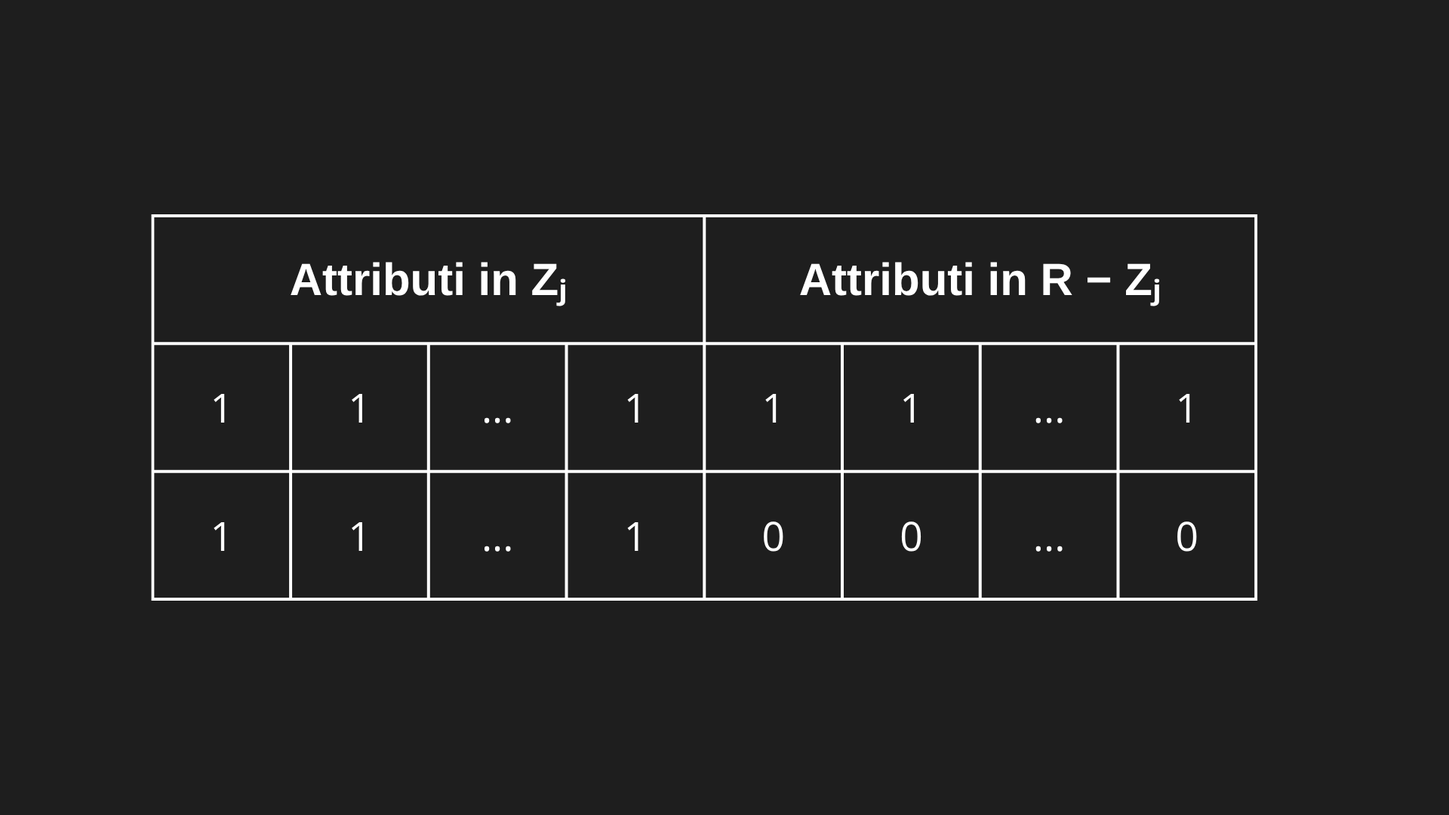
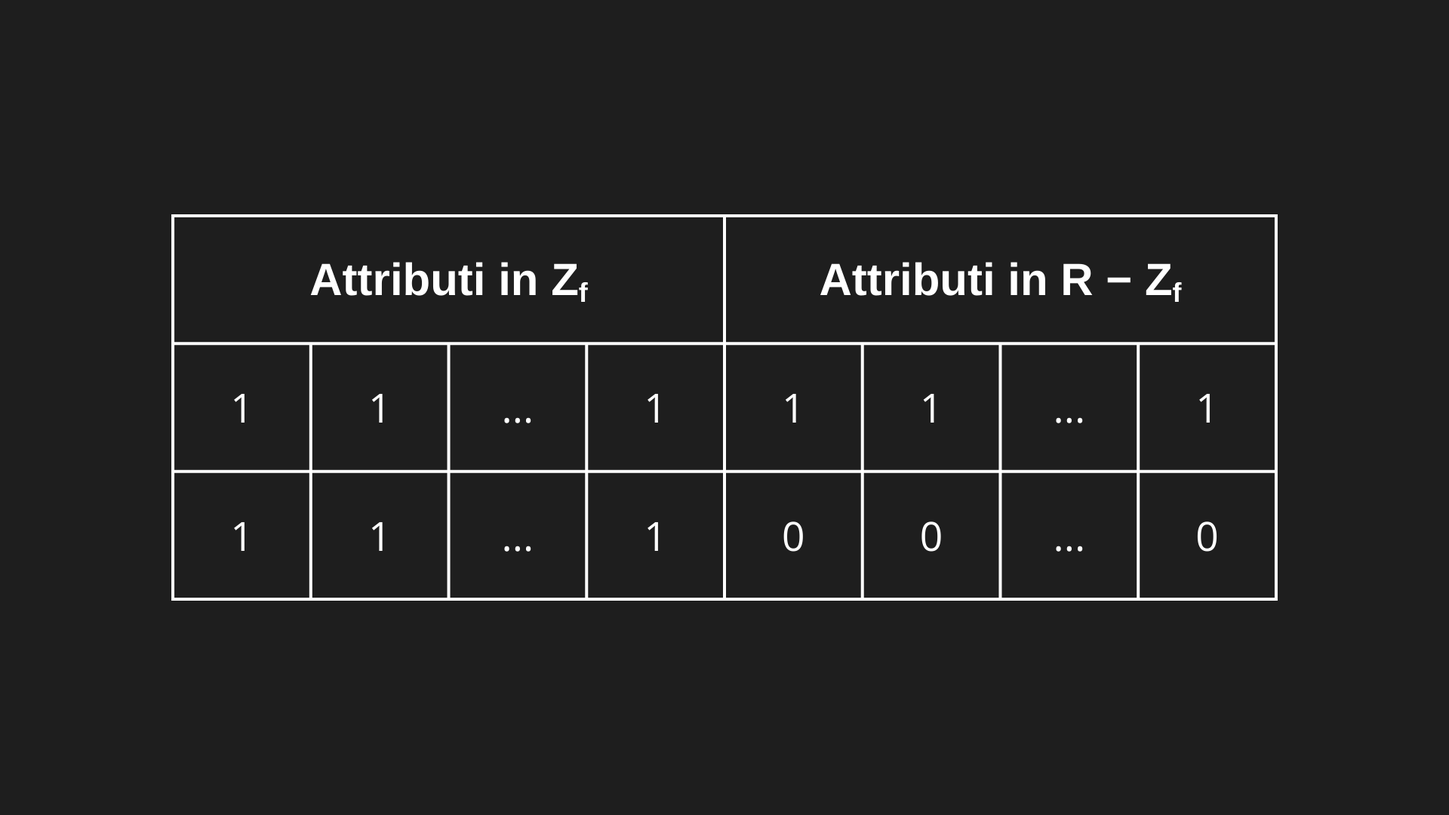
Sync + build 02/08/2026 01:32:26

diff --git a/content/BD/Logical Layer/Data Model/Data Model Types/Relational Model/Functional Dependencies.md b/content/BD/Logical Layer/Data Model/Data Model Types/Relational Model/Functional Dependencies.md
@@ -174,20 +174,20 @@ Dimostriamo che <b>F<sup>A</sup> ⊆ F<sup>+</sup></b>:
 
 ---
 
-Indichiamo con <b>F<sub>i</sub></b> **l’insieme delle dipendenze funzionali ottenute dopo *i* applicazioni degli assiomi di Armstrong** a partire da **F**. Quindi:
+Indichiamo con <b>F<sub>j</sub></b> **l’insieme delle dipendenze funzionali ottenute dopo *j* applicazioni degli assiomi di Armstrong** a partire da **F**. Quindi:
 <b>F<sub>0</sub> = F</b> ...
 <b>F<sub>1</sub></b> = tutte le dipendenze ottenute da <b>F<sub>0</sub></b> applicando una volta uno qualsiasi dei tre assiomi...
 <b>F<sub>2</sub></b> = tutte quelle ottenute applicando ancora una volta uno qualsiasi dei tre assiomi su <b>F<sub>1</sub></b>...
 e così via.
 L’unione di tutti questi insiemi costituisce <b>F<sup>A</sup></b>:
 
-$$F^A = \bigcup_{i \ge 0} F_i$$
+$$F^A = \bigcup_{j \ge 0} F_j$$
 
 > In altre parole, <b>F<sup>A</sup></b> è il risultato di applicare **ricorsivamente** gli assiomi di Armstrong **fino a chiusura** cioè finché non si ottengono più nuove dipendenze.
 
 ---
 
-**Caso base (*i* = 0):**
+**Caso base (*j* = 0):**
 
 $$F_0=F⊆F^+⟹F_0⊆F^+$$
 
@@ -197,17 +197,17 @@ Per [[Functional Dependencies#CHIUSURA SEMANTICA|definizione]], tutte le dipende
 
 **Ipotesi induttiva:**
 
-$$F_i⊆F^+$$
+$$F_j⊆F^+$$
 
-Si assume che tutte le dipendenze ottenute con **al più *i* applicazioni** degli assiomi di Armstrong siano già in <b>F<sup>+</sup></b>.
+Si assume che tutte le dipendenze ottenute con **al più *j* applicazioni** degli assiomi di Armstrong siano già in <b>F<sup>+</sup></b>.
 
 ---
 
-**Passo induttivo (*i* > 0):**
+**Passo induttivo (*j* > 0):**
 
-$$F_{i+1}⊆F^+$$
+$$F_{j+1}⊆F^+$$
 
-Bisogna mostrare che anche ogni dipendenza in <b>F<sub>i+1</sub></b> è ottenuta applicando **una sola volta in più** uno dei tre assiomi di Armstrong su dipendenze già contenute in <b>F<sub>i</sub></b>.
+Bisogna mostrare che anche ogni dipendenza in <b>F<sub>j+1</sub></b> è ottenuta applicando **una sola volta in più** uno dei tre assiomi di Armstrong su dipendenze già contenute in <b>F<sub>j</sub></b>.
 
 Ora si considerano i tre casi in cui la nuova **X → Y** può essere stata ottenuta:
 
@@ -230,7 +230,7 @@ Dunque **X → Y**, se ottenuta per riflessività, è **una dipendenza logicamen
 
 **Caso 2:**
 
-**X → Y** è stata ottenuta applicando l’assioma dell'[[Functional Dependencies#Aumento (Augmentation)|aumento]] ad una dipendenza funzionale **V → W** in <b>F<sup>A</sup></b>, che a sua volta è stata ottenuta applicando ricorsivamente gli assiomi di Armstrong un numero di volte **≤ i−1** (quindi per ipotesi induttiva, **V → W ∈** <b>F<sup>+</sup></b>).
+**X → Y** è stata ottenuta applicando l’assioma dell'[[Functional Dependencies#Aumento (Augmentation)|aumento]] ad una dipendenza funzionale **V → W** in <b>F<sup>A</sup></b>, che a sua volta è stata ottenuta applicando ricorsivamente gli assiomi di Armstrong un numero di volte **≤ j−1** (quindi per ipotesi induttiva, **V → W ∈** <b>F<sup>+</sup></b>).
 
 Dunque si ha **X = VZ e Y = WZ** per qualche insieme di attributi **Z ∈ R**.
 
@@ -261,7 +261,7 @@ Dunque **X → Y** (**VZ → WZ**), se ottenuta per aumento su **V → W ∈** <
 **Caso 3:**
 
 **X → Y** è stata ottenuta applicando l’assioma della [[Functional Dependencies#Transitività (Transitivity)|transitività]] a due dipendenze funzionali **X → Z** e **Z → Y** in <b>F<sup>A</sup></b>, ottenute a loro volta applicando ricorsivamente gli assiomi di Armstrong un numero di
-volte **≤ i−1** (quindi per ipotesi induttiva, **X → Z** e **Z → Y ∈** <b>F<sup>+</sup></b>).
+volte **≤ j−1** (quindi per ipotesi induttiva, **X → Z** e **Z → Y ∈** <b>F<sup>+</sup></b>).
 
 Sia ***r*** un’istanza di **R** e siano ***t<sub>1</sub>*** e ***t<sub>2</sub>*** due tuple di ***r*** tali che:
 
@@ -541,21 +541,20 @@ L’algoritmo calcola correttamente la chiusura <b>X<sup>+</sup></b> di un insie
 
 **Dimostrazione:**
 
-Indichiamo con <b>Z<sub>0</sub></b> il valore iniziale di **Z** (<b>Z<sub>0</sub></b> **= X**) e con <b>Z<sub>i</sub></b> ed <b>S<sub>i</sub></b>, con  ***i* ≥ 1**, i valori di **Z** ed **S** dopo l’***i*-esima** esecuzione del corpo del ciclo. Facile vedere che, per ogni ***i***:
+Indichiamo con <b>Z<sub>0</sub></b> il valore iniziale di **Z** (<b>Z<sub>0</sub></b> **= X**) e con <b>Z<sub>j</sub></b> ed <b>S<sub>j</sub></b>, con ***j* ≥ 1**, i valori di **Z** ed **S** dopo la ***j*-esima** esecuzione del corpo del ciclo. Facile vedere che, per ogni ***j***:
 
-$$Z_i⊆ Z_{i+1}$$
+$$Z_j⊆ Z_{j+1}$$
 
-> Ricorda: In <b>Z<sub>i</sub></b> ci sono gli attributi aggiunti a **Z** fino alla ***i*-esima** iterazione. Alla fine di ogni iterazione aggiungiamo qualcosa a **Z** da **S**, ma **non eliminiamo mai** nessun attributo in **Z**.
+> Ricorda: In <b>Z<sub>j</sub></b> ci sono gli attributi aggiunti a **Z** fino alla ***j*-esima** iterazione. Alla fine di ogni iterazione aggiungiamo qualcosa a **Z** da **S**, ma **non eliminiamo mai** nessun attributo in **Z**.
 
-Sia ***j*** tale che <b>S<sub>j</sub></b> **⊆** <b>Z<sub>j</sub></b> (cioè <b>Z<sub>j</sub></b> **= valore di Z al termine dell'algoritmo =** <b>X<sup>+</sup></b>), dimostriamo che:
+Sia ***f*** tale che <b>S<sub>f</sub></b> **⊆** <b>Z<sub>f</sub></b> (cioè <b>Z<sub>f</sub></b> **= valore di Z al termine dell'algoritmo =** <b>X<sup>+</sup></b>), dimostriamo che:
 
-$$A \in Z_j  \iff A \in X^+$$
+$$A \in Z_f  \iff A \in X^+$$
 
 ---
+###### 1. Se A ∈ Z<sub>f</sub> allora A ∈ X<sup>+</sup> (⇒):
 
-**1. Se A ∈ <b>Z<sub>j</sub></b> allora A ∈ <b>X<sup>+</sup></b> (⇒):**
-
-**Caso base (*i* = 0):**
+**Caso base (*j* = 0):**
 
 $$Z_0=X⊆X^+⟹Z_0⊆X^+$$
 
@@ -565,35 +564,34 @@ Per [[Functional Dependencies#Riflessività (reflexivity)|riflessività]], tutti
 
 **Ipotesi induttiva:** 
 
-$$Z_{i-1}⊆X^+$$
+$$Z_{j-1}⊆X^+$$
 
-Si assume che tutti gli attributi ottenuti con **al più *i* - 1 iterazioni** dell'algoritmo siano già in <b>X<sup>+</sup></b>.
+Si assume che tutti gli attributi ottenuti con **al più *j* - 1 iterazioni** dell'algoritmo siano già in <b>X<sup>+</sup></b>.
 
 ---
 
-**Passo induttivo (*i* > 0):**
+**Passo induttivo (*j* > 0):**
 
-Sia **A** un attributo in **<b>Z<sub>i</sub></b> - <b>Z<sub>i-1</sub></b>** (ovvero aggiunto a **Z** durante l'***i*-esima** iterazione):
-Deve esistere, secondo l'[[Functional Dependencies#Algoritmo calcolo X<sup>+</sup>|algoritmo]], una dipendenza **Y → V ∈ F** tale che <b>Y ⊆ Z<sub>i-1</sub></b> e **A ∈ V**.
-Poiché <b>Y ⊆ Z<sub>i-1</sub></b>, allora per l'**ipotesi induttiva**: <b>Y ⊆ X<sup>+</sup></b>.
+Sia **A** un attributo in **<b>Z<sub>j</sub></b> - <b>Z<sub>j-1</sub></b>** (ovvero aggiunto a **Z** durante la ***j*-esima** iterazione):
+Deve esistere, secondo l'[[Functional Dependencies#Algoritmo calcolo X<sup>+</sup>|algoritmo]], una dipendenza **Y → V ∈ F** tale che <b>Y ⊆ Z<sub>j-1</sub></b> e **A ∈ V**.
+Poiché <b>Y ⊆ Z<sub>j-1</sub></b>, allora per l'**ipotesi induttiva**: <b>Y ⊆ X<sup>+</sup></b>.
 Pertanto, per il [[Functional Dependencies#Lemma 1|lemma]]: <b>Y ⊆ X<sup>+</sup></b> ⟹ **X → Y ∈** <b>F<sup>A</sup></b>.
 Per [[Functional Dependencies#Transitività (Transitivity)|transitività]]: Se **X → Y ∈** <b>F<sup>A</sup></b> e **Y → V ∈ F**, allora **X → V ∈** <b>F<sup>A</sup></b>.
 Pertanto, sempre per il [[Functional Dependencies#Lemma|lemma]]: **X → V ∈** <b>F<sup>A</sup></b> ⟹ <b>V ⊆ X<sup>+</sup></b>.
-Dunque, in quanto **A ∈ V** e <b>V ⊆ X<sup>+</sup></b>, allora <b>A ∈ X<sup>+</sup></b>, per ogni **A ∈ <b>Z<sub>i</sub></b> - <b>Z<sub>i-1</sub></b>**.
-Abbiamo  quindi dimostrato che <b>Z<sub>i</sub></b> - <b>Z<sub>i-1</sub></b> **⊆** <b>X<sup>+</sup></b>.
-Sapendo anche che, per l'ipotesi induttiva, <b>Z<sub>i-1</sub></b> **⊆** <b>X<sup>+</sup></b>, possiamo affermare che:
+Dunque, in quanto **A ∈ V** e <b>V ⊆ X<sup>+</sup></b>, allora <b>A ∈ X<sup>+</sup></b>, per ogni **A ∈ <b>Z<sub>j</sub></b> - <b>Z<sub>j-1</sub></b>**.
+Abbiamo  quindi dimostrato che <b>Z<sub>j</sub></b> - <b>Z<sub>j-1</sub></b> **⊆** <b>X<sup>+</sup></b>.
+Sapendo anche che, per l'ipotesi induttiva, <b>Z<sub>j-1</sub></b> **⊆** <b>X<sup>+</sup></b>, possiamo affermare che:
 
-$$Z_i⊆X^+$$
+$$Z_j⊆X^+$$
 
 ---
-
-**2. Se A ∈ <b>X<sup>+</sup></b> allora A ∈ <b>Z<sub>j</sub></b> (⇐):**
+###### 2. Se A ∈ X<sup>+</sup> allora A ∈ Z<sub>f</sub> (⇐):
 
 **Costruzione dell'istanza *r* :**
 
 Per poter dimostrare, si costruisce un’istanza artificiale **r** dello schema **R** con **solo due tuple**, così:
 ![[special instance 1.png]]
-Le due tuple sono **uguali su tutti gli attributi di** <b>Z<sub>j</sub></b>, ma **diverse su tutti gli altri attributi (R − <b>Z<sub>j</sub></b>)**.
+Le due tuple sono **uguali su tutti gli attributi di** <b>Z<sub>f</sub></b>, ma **diverse su tutti gli altri attributi (R − <b>Z<sub>f</sub></b>)**.
 
 ---
 
@@ -604,28 +602,28 @@ Data una qualsiasi dipendenza funzionale **V → W** in **F**:
 
 > Ricorda: Una dipendenza funzionale **V → W** in **F** è violata se <b>t<sub>1</sub>[V] = t<sub>2</sub>[V] e t<sub>1</sub>[W] ≠ t<sub>2</sub>[W]</b>.
 
-Se **V ⊄ <b>Z<sub>j</sub></b>** allora <b>t<sub>1</sub>[V] ≠ t<sub>2</sub>[V]</b> perché c'è almeno un attributo di **V** in **R − <b>Z<sub>j</sub></b>** cioè **V ∩ (R − <b>Z<sub>j</sub></b>) ≠ Ø** e quindi la dipendenza è soddisfatta. 
+Se **V ⊄ <b>Z<sub>f</sub></b>** allora <b>t<sub>1</sub>[V] ≠ t<sub>2</sub>[V]</b> perché c'è almeno un attributo di **V** in **R − <b>Z<sub>f</sub></b>** cioè **V ∩ (R − <b>Z<sub>f</sub></b>) ≠ Ø** e quindi la dipendenza è soddisfatta. 
 
-Se **V ⊆ <b>Z<sub>j</sub></b>** allora <b>t<sub>1</sub>[V] = t<sub>2</sub>[V]</b> quindi: se le due tuple avessero valori diversi su **W**, cioè **W ∩ (R − <b>Z<sub>j</sub></b>) ≠ Ø** la dipendenza non sarebbe soddisfatta (<b>t<sub>1</sub>[W] ≠ t<sub>2</sub>[W]</b>). Allo stesso tempo però si avrebbe anche che **<b>S<sub>j</sub></b> ⊄ <b>Z<sub>j</sub></b>**, ovvero <b>Z<sub>j</sub></b> non sarebbe il valore finale di **Z** (ma questo è in contraddizione con la nostra costruzione dell'istanza) infatti:
-L'[[Functional Dependencies#Algoritmo calcolo X<sup>+</sup>|algoritmo]] costruisce <b>S<sub>j</sub></b> (l'insieme **S** all'ultima iterazione) come: 
+Se **V ⊆ <b>Z<sub>f</sub></b>** allora <b>t<sub>1</sub>[V] = t<sub>2</sub>[V]</b> quindi: se le due tuple avessero valori diversi su **W**, cioè **W ∩ (R − <b>Z<sub>f</sub></b>) ≠ Ø** la dipendenza non sarebbe soddisfatta (<b>t<sub>1</sub>[W] ≠ t<sub>2</sub>[W]</b>). Allo stesso tempo però si avrebbe anche che **<b>S<sub>f</sub></b> ⊄ <b>Z<sub>f</sub></b>**, ovvero <b>Z<sub>f</sub></b> non sarebbe il valore finale di **Z** (ma questo è in contraddizione con la nostra costruzione dell'istanza) infatti:
+L'[[Functional Dependencies#Algoritmo calcolo X<sup>+</sup>|algoritmo]] costruisce <b>S<sub>f</sub></b> (l'insieme **S** all'ultima iterazione) come: 
 
-$$S_j=\{\ A∣∃\ V→W∈F\ ∧\ V⊆Z_j\ ∧\ A∈W\ \}$$
+$$S_f=\{\ A∣∃\ V→W∈F\ ∧\ V⊆Z_f\ ∧\ A∈W\ \}$$
 
-> Ricorda: <b>S<sub>j</sub></b> contiene tutti gli attributi che devono essere aggiunti a **Z** perché derivano da **DF** applicabili a <b>Z<sub>j</sub></b>.
+> Ricorda: <b>S<sub>f</sub></b> contiene tutti gli attributi che devono essere aggiunti a **Z** perché derivano da **DF** applicabili a <b>Z<sub>f</sub></b>.
 
-Normalmente **<b>S<sub>j</sub></b> ⊆ <b>Z<sub>j</sub></b>** quindi non si dovrebbe avere una nuova iterazione e l'algoritmo dovrebbe terminare restituendo <b>Z<sub>j</sub></b>. Tuttavia in questo caso, prendendo **A** in **W ∩ (R − <b>Z<sub>j</sub></b>) ≠ Ø**:
+Normalmente **<b>S<sub>f</sub></b> ⊆ <b>Z<sub>f</sub></b>** quindi non si dovrebbe avere una nuova iterazione e l'algoritmo dovrebbe terminare restituendo <b>Z<sub>f</sub></b>. Tuttavia in questo caso, prendendo **A** in **W ∩ (R − <b>Z<sub>f</sub></b>) ≠ Ø**:
 
-$$ V \subseteq Z_j \ \land \  W \cap (R - Z_j) \neq \varnothing \ \Rightarrow \  S_j \not\subseteq Z_j \ \Rightarrow \  Z_{j+1} \neq Z_j $$
+$$ V \subseteq Z_f \ \land \  W \cap (R - Z_f) \neq \varnothing \ \Rightarrow \  S_f \not\subseteq Z_f \ \Rightarrow \  Z_{f+1} \neq Z_f $$
 
-Dato che **V ⊆ <b>Z<sub>j</sub></b>** in questo caso è vero, **V → W** sarebbe applicabile, quindi **A** dovrebbe entrare in <b>S<sub>j</sub></b>.
-Di conseguenza **Sⱼ ⊄ <b>Z<sub>j</sub></b>**, quindi **A entrerebbe in Z** all’iterazione successiva (<b>Z<sub>j+1</sub></b>):
-Ma abbiamo scelto <b>Z<sub>j</sub></b> come valore finale di **Z**, quindi per forza: **Sⱼ ⊆ <b>Z<sub>j</sub></b>**, siamo giunti a una contraddizione. 
+Dato che **V ⊆ <b>Z<sub>f</sub></b>** in questo caso è vero, **V → W** sarebbe applicabile, quindi **A** dovrebbe entrare in <b>S<sub>f</sub></b>.
+Di conseguenza <b>S<sub>f</sub></b> **⊄** <b>Z<sub>f</sub></b>, quindi **A entrerebbe in Z** all’iterazione successiva (<b>Z<sub>f+1</sub></b>):
+Ma abbiamo scelto <b>Z<sub>f</sub></b> come valore finale di **Z**, quindi per forza: <b>S<sub>f</sub></b> **⊆** <b>Z<sub>f</sub></b>, siamo giunti a una contraddizione. 
 
 Quindi la dipendenza **V → W** in **F** è soddisfatta anche quando le due tuple hanno valori uguali su V, e dunque l’istanza è legale.
 
 ---
 
-**Verifica che A ∈ <b>Z<sub>j</sub></b>:**
+**Verifica che A ∈ <b>Z<sub>f</sub></b>:**
 
 Abbiamo già mostrato che l’istanza ***r*** costruita **è legale**, cioè soddisfa **tutte** le dipendenze funzionali in **F** e quindi anche **tutte le dipendenze in** <b>F<sup>+</sup></b>.
 
@@ -636,9 +634,9 @@ $$X→A∈F^+$$
 Poiché ***r*** è legale, tutte le DF in <b>F<sup>+</sup></b> devono valere nell’istanza, quindi anche **X → A**, verifichiamo:
 Per l'[[Functional Dependencies#Algoritmo calcolo X<sup>+</sup>|algoritmo]]:
 
-$$Z_0 = X \subseteq Z_j$$
+$$Z_0 = X \subseteq Z_f$$
 
-E nella nostra costruzione le due tuple <b>t<sub>1</sub></b> e <b>t<sub>2</sub></b> sono **uguali su tutti gli attributi di <b>Z<sub>j</sub></b>**. Dunque:
+E nella nostra costruzione le due tuple <b>t<sub>1</sub></b> e <b>t<sub>2</sub></b> sono **uguali su tutti gli attributi di <b>Z<sub>f</sub></b>**. Dunque:
 
 $$t_1[X] = t_2[X]$$
 
@@ -647,7 +645,7 @@ Poiché ***r*** è legale, deve soddisfare anche:
 
 $$t_1[A] = t_2[A]$$
 
-Questo (data la [[special instance 1.png|costruzione]] di **r**) è possibile solo se **A ∈ <b>Z<sub>j</sub></b>**, in quanto se **A ∈ <b>R - Z<sub>j</sub></b>** avremmo <b>t<sub>1</sub>[A] ≠ t<sub>2</sub>[A]</b> e **X → A ∈ <b>F<sup>+</sup></b>** non sarebbe soddisfatta. Quindi **A ∈ <b>X<sup>+</sup></b>** **⇒** **A ∈ <b>Z<sub>j</sub></b>** è dimostrato.
+Questo (data la [[special instance 1.png|costruzione]] di **r**) è possibile solo se **A ∈ <b>Z<sub>f</sub></b>**, in quanto se **A ∈ <b>R - Z<sub>f</sub></b>** avremmo <b>t<sub>1</sub>[A] ≠ t<sub>2</sub>[A]</b> e **X → A ∈ <b>F<sup>+</sup></b>** non sarebbe soddisfatta. Quindi **A ∈ <b>X<sup>+</sup></b>** **⇒** **A ∈ <b>Z<sub>f</sub></b>** è dimostrato.
 
 ---
 ### CHIAVI

diff --git a/content/BD/Logical Layer/Data Model/Data Model Types/Relational Model/Decomposition.md b/content/BD/Logical Layer/Data Model/Data Model Types/Relational Model/Decomposition.md
@@ -152,16 +152,86 @@ Ripetiamo il calcolo di **S** con il nuovo **Z**. Questo può produrre ulteriori
 Continuiamo finché **S** non aggiunge più nulla (cioè **S ⊆ Z**).
 
 ---
+##### Teorema sulla validità dell'algoritmo calcolo X<sup>+</sup><sub>G</sub>:
+
+L’algoritmo calcola correttamente <b>X<sup>+</sup><sub>G</sub></b> con <b>G=∪<sub>i=1</sub><sup>k</sup> π<sub>R<sub>i</sub></sub>(F)</b>.
+
+---
+
+**Dimostrazione:**
+
+Indichiamo con <b>Z<sub>0</sub></b> il valore iniziale di **Z** (<b>Z<sub>0</sub></b> **= X**) e con <b>Z<sub>j</sub></b> ed <b>S<sub>j</sub></b>, con ***j* ≥ 1**, i valori di **Z** ed **S** dopo la ***j*-esima** esecuzione del corpo del ciclo. Facile vedere che, per ogni ***j***:
+
+$$Z_j⊆ Z_{j+1}$$
+
+> Ricorda: In <b>Z<sub>j</sub></b> ci sono gli attributi aggiunti a **Z** fino alla ***j*-esima** iterazione. Alla fine di ogni iterazione aggiungiamo qualcosa a **Z** da **S**, ma **non eliminiamo mai** nessun attributo in **Z**.
+
+Sia ***f*** tale che <b>S<sub>f</sub></b> **⊆** <b>Z<sub>f</sub></b> (cioè <b>Z<sub>f</sub></b> **= valore di Z al termine dell'algoritmo =** <b>X<sup>+</sup><sub>G</sub></b>), dimostriamo che:
+
+$$Z_f = X^+_G$$
+
+---
+###### Prima inclusione:
+
+Dimostriamo che <b>Z<sub>f</sub> ⊆ X<sup>+</sup><sub>G</sub></b>:
+
+---
+
+**Caso base (*i* = 0):**
+
+$$Z_0=X⊆X^+_G⟹Z_0⊆X^+_G$$
+
+Per [[Functional Dependencies#Riflessività (reflexivity)|riflessività]], tutti gli attributi in **X** appartengono a <b>X<sup>+</sup><sub>G</sub></b>, perché <b>X<sup>+</sup><sub>G</sub></b> è l’insieme di _tutti_ gli attributi determinati in **G** a partire da **X**. Caso base verificato.
+
+---
+
+**Ipotesi induttiva:** 
+
+$$Z_j⊆X^+_G$$
+
+Si assume che tutti gli attributi ottenuti con **al più *j* iterazioni** dell'algoritmo siano già in <b>X<sup>+</sup><sub>G</sub></b>.
+
+---
+
+**Passo induttivo (*j* > 0):**
+
+$$Z_{j+1}⊆X^+_G$$
+
+Bisogna mostrare che anche ogni attributo in <b>Z<sub>j+1</sub></b> è contenuto in <b>X<sup>+</sup><sub>G</sub></b>, dunque che ogni attributo in <b>Z<sub>j</sub> ∪ S<sub>j</sub></b> è contenuto in <b>X<sup>+</sup><sub>G</sub></b> (dato che per l'algoritmo: <b>Z<sub>j+1</sub></b> = <b>Z<sub>j</sub> ∪ S<sub>j</sub></b>).
+
+Se **A ∈** <b>Z<sub>j</sub></b> allora per ipotesi induttiva **A ⊆** <b>X<sup>+</sup><sub>G</sub></b>, dunque in questo caso il passo è dimostrato.
+
+Se **A ∈** <b>S<sub>j</sub></b> allora per definizione di <b>S<sub>j</sub></b> esiste un indice ***i*** **≤ k** tale che <b>A ∈ [(Z<sub>j</sub> ∩ R<sub>i</sub>)<sup>+</sup><sub>F</sub> ∩ R<sub>i</sub>]</b>. Dunque, per definizione di [[Functional Dependencies#CHIUSURA DI UN INSIEME DI ATTRIBUTI|chiusura]], se **A ∈** <b>S<sub>j</sub></b> allora <b>(Z<sub>j</sub> ∩ R<sub>i</sub>) → A ∈ F<sup>+</sup></b>, con <b>(Z<sub>j</sub> ∩ R<sub>i</sub>) ⊆ R<sub>i</sub></b>. Ciò significa che **A** è derivabile da <b>(Z<sub>j</sub> ∩ R<sub>i</sub>)</b> usando dipendenze che coinvolgono solo attributi di <b>R<sub>i</sub></b>. Tali dipendenze appartengono sicuramente alla proiezione <b>π<sub>R<sub>i</sub></sub>(F) = </b>**{ X → Y | X → Y ∈ <b>F<sup>+</sup></b>∧ XY ⊆ R<sub>i</sub> }**, quindi, per definizione, appartengono a **G** (ricordiamo che <b>G=∪<sub>i=1</sub><sup>k</sup> π<sub>R<sub>i</sub></sub>(F)</b>). Dunque, se <b>(Z<sub>j</sub> ∩ R<sub>i</sub>) → A ∈ G</b> e <b>(Z<sub>j</sub> ∩ R<sub>i</sub>) ⊆ Z<sub>j</sub> ⊆ X<sup>+</sup><sub>G</sub></b> allora **A ⊆** <b>X<sup>+</sup><sub>G</sub></b>. Anche in questo caso il passo è dimostrato.
+
+Abbiamo dimostrato che l’algoritmo non introduce attributi “a caso”. Ogni attributo che aggiunge è davvero derivabile da **X** usando le dipendenze in **G**, quindi <b>Z<sub>f</sub> ⊆ X<sup>+</sup><sub>G</sub></b>.
+
+---
+###### Seconda inclusione:
+
+Dimostriamo che <b>X<sup>+</sup><sub>G</sub> ⊆ Z<sub>f</sub></b>:
+
+---
+
+L’algoritmo parte da (<b>Z<sub>0</sub></b> **= X**) e poi aggiunge attributi senza mai rimuoverne. Quindi alla fine sarà sempre valida la condizione:  
+
+$$X \subseteq Z_f$$
+L’algoritmo si ferma solo quando non riesce più ad aggiungere attributi applicando le dipendenze funzionali in G. Questo significa che, se esistesse una dipendenza **Y → A ∈ G** con <b>Y ⊆ Z<sub>f</sub></b> ma **A ∉** <b>Z<sub>f</sub></b>, l’algoritmo potrebbe ancora aggiungere **A** a <b>Z<sub>f</sub></b> e quindi **non sarebbe terminato**. Poiché è terminato (abbiamo raggiunto <b>Z<sub>f</sub></b>), una situazione del genere non può esistere e quindi possiamo dire che <b>Z<sub>f</sub></b> è già chiuso, cioè:  
+
+$$(Z_f)_G^+ = Z_f$$
+
+Una proprietà generale della chiusura è: se <b>X ⊆ Y</b> allora <b>X<sup>+</sup><sub>G</sub></b> **⊆** <b>Y<sup>+</sup><sub>G</sub></b>. Qui sappiamo che **X** **⊆** <b>Z<sub>f</sub></b>, quindi: <b>X<sup>+</sup><sub>G</sub></b> **⊆** <b>(Z<sub>f</sub>)<sup>+</sup><sub>G</sub></b>. Ma dato che <b>(Z<sub>f</sub>)<sup>+</sup><sub>G</sub></b> **=** <b>Z<sub>f</sub></b>, allora <b>X<sup>+</sup><sub>G</sub> ⊆ Z<sub>f</sub></b>. L'inclusione è dimostrata, infatti, al termine dell'algoritmo, <b>Z<sub>f</sub></b> deve contenere **tutto ciò che è derivabile da X** in **G**.
+
+---
 ### DECOMPOSIZIONI CON JOIN SENZA PERDITA
 
 Sia **R** uno schema di relazione. Una decomposizione <b>ρ = {R<sub>1</sub>, R<sub>2</sub>, ..., R<sub>k</sub>}</b> di **R** ha un [[Relational Algebra#INNER JOIN (⨝)|join]] senza perdita se per ogni istanza legale ***r*** di **R** si ha:
 
-$$r = \pi_{R_1}(r)⨝\pi_{R_2}(r)⨝...⨝\pi_{R_k}(r)$$
+$$r = \pi_{R_1}(r)⨝\pi_{R_2}(r)⨝...⨝\pi_{R_k}(r) = m_\rho(r)$$
 
 > Ogni <b>π<sub>R<sub>i</sub></sub>(<i>r</i>)</b> è un insieme di **tuple** dato dalla [[Relational Algebra#PROIEZIONE (π)|proiezione]] dell’istanza ***r*** sul sottoschema <b>R<sub>i</sub></b>. Contiene solo le tuple di ***r*** che hanno tutti gli attributi in <b>R<sub>i</sub></b>.
 
 ---
-##### Teorema sulle decomposizioni con lossless join 
+##### Teorema sulle decomposizioni con join senza perdita
 
 Sia **R** uno schema di relazione e <b>ρ = {R<sub>1</sub>, R<sub>2</sub>, ..., R<sub>k</sub>}</b> una decomposizione di **R**. Per ogni istanza legale ***r*** di **R**, indicato con <b><i>m</i><sub>ρ</sub>(<i>r</i>)</b> **=** <b>π<sub>R<sub>1</sub></sub>(<i>r</i>)</b> **⨝** <b>π<sub>R<sub>2</sub></sub>(<i>r</i>)</b> **⨝** **...** **⨝** <b>π<sub>R<sub>k</sub></sub>(<i>r</i>)</b> si ha:
 
@@ -295,7 +365,7 @@ else: ρ non ha un lossless join
 - **Se non esiste una riga in *r* con tutti <b>a<sub><i>j</i></sub></b>** : la decomposizione è **con perdita**, perché non si riesce a ricostruire le tuple originali senza generare simboli spuri.
 
 ---
-##### Esempio:
+###### Esempio:
 
 **R = ABCD**
 **F = { A → B, C → D, B → C }**
@@ -447,17 +517,37 @@ L’algoritmo verifica correttamente se una decomposizione **ρ** di **R** ha un
 
 **Dimostrazione:**
 
-Occorre dimostrare che **ρ** ha un join senza perdita (<b><i>m</i><sub>ρ</sub>(<i>r</i>)</b> **= *r*** per ogni ***r*** legale) **se e solo se**, quando l’[[Decomposition#Algoritmo verifica join senza perdita|algoritmo]] termina, la tabella ***r*** ha una tupla con tutte <b>a<sub><i>j</i></sub></b>.
+Occorre dimostrare che: **se** **ρ** ha un join senza perdita (<b><i>m</i><sub>ρ</sub>(<i>r</i>)</b> **= *r*** per ogni ***r*** legale), **allora**, quando l’[[Decomposition#Algoritmo verifica join senza perdita|algoritmo]] termina, la tabella ***r*** ha una tupla con tutte <b>a<sub><i>j</i></sub></b>.
 
-**Supponiamo per assurdo** che **ρ** abbia un join senza perdita (<b><i>m</i><sub>ρ</sub>(<i>r</i>)</b> **= *r***), ma che quando l’algoritmo termina la tabella ***r*** **non abbia nessuna riga con tutti** <b>a<sub><i>j</i></sub></b>.
+Costruiamo <b><i>r</i><sub>0</sub></b>, ovvero l'stanza ***r*** nella fase iniziale dell'algoritmo:
 
-L’algoritmo termina solo quando non ci sono più violazioni delle dipendenze funzionali di **F**. Quindi la tabella ***r*** che otteniamo alla fine è un’istanza legale di **R**, cioè soddisfa tutte le **FD**.
+- creiamo una tupla <b>t<sub>i<sub>0</sub></sub></b> per ogni <b>R<sub>i</sub></b>
+- inseriamo <b>a<sub><i>j</i></sub></b> nelle colonne degli attributi di <b>R<sub>i</sub></b>
+- inseriamo simboli distinti <b>b<sub><i>ij</i></sub></b> nelle altre colonne.
 
-Durante l’algoritmo, i simboli <b>a<sub><i>j</i></sub></b> non vengono mai trasformati in simboli <b>b<sub><i>ij</i></sub></b> (per il funzionamento proprio dell'algoritmo). Ogni riga della tabella, fin dall’inizio, rappresenta la proiezione <b>π<sub>R<sub>i</sub></sub>(<i>r</i>)</b> e contiene i suoi <b>a<sub><i>j</i></sub></b> originali. Quindi, al termine, ciascuna proiezione mantiene ancora i suoi <b>a<sub><i>j</i></sub></b>.
+Applichiamo il ciclo di propagazione fino ad ottenere <b><i>r</i><sub>f</sub></b>, ovvero l'stanza ***r*** nella fase finale dell'algoritmo. 
 
-Se ogni proiezione <b>π<sub>R<sub>i</sub></sub>(<i>r</i>)</b> contiene i suoi <b>a<sub><i>j</i></sub></b>, allora il join <b><i>m</i><sub>ρ</sub>(<i>r</i>)</b> deve contenere almeno una tupla con tutti i simboli <b>a<sub><i>j</i></sub></b>. Ma questa tupla con tutti <b>a<sub><i>j</i></sub></b> **non compare** nella tabella finale (per ipotesi).
+Per ogni tupla <b>t<sub>i<sub>f</sub></sub></b> nelle colonne di <b>R<sub>i</sub></b> restano sicuramente tutti <b>a<sub><i>j</i></sub></b> (per la costruzione di ***r***), quindi <b>t<sub>i<sub>f</sub></sub>[R<sub>i</sub>] = (a<sub><i>j<sub>1</sub></i></sub>, a<sub><i>j<sub>2</sub></i></sub>, ...)</b> . Cioè **la proiezione della tupla <b>t<sub>i</sub></b> sugli attributi del suo schema <b>R<sub>i</sub></b> contiene solo <b>a<sub><i>j</i></sub></b>**.
 
-**Contraddizione:** da un lato, l’ipotesi dice che <b><i>m</i><sub>ρ</sub>(<i>r</i>)</b> **= *r***. Dall’altro, abbiamo dedotto che <b><i>m</i><sub>ρ</sub>(<i>r</i>)</b> deve contenere una tupla con tutti <b>a<sub><i>j</i></sub></b>, che però non è presente in ***r***. Quindi <b><i>m</i><sub>ρ</sub>(<i>r</i>)</b> **≠ *r*** (se la decomposizione fosse davvero senza perdita, il join dovrebbe ricostruire esattamente ***r*** e non un'altra istanza).
+Definiamo ora la tupla <b>t<sup>a</sup> = (a<sub><i>j<sub>1</sub></i></sub>, a<sub><i>j<sub>2</sub></i></sub>, ..., a<sub><i>j<sub>n</sub></i></sub>)</b> cioè la tupla su tutto **R** che ha solo <b>a<sub><i>j</i></sub></b>. Consideriamo poi il **join naturale** delle proiezioni delle tuple. Il join combina tuple che **coincidono sugli attributi in comune**:
+
+$$t_{1_f}[R_1] \bowtie t_{2_f}[R_2] \bowtie \dots \bowtie t_{k_f}[R_k]$$
+
+Osserviamo che, dato che ogni tupla <b>t<sub>i<sub>f</sub></sub></b> ha sicuramente <b>a<sub><i>j</i></sub></b> nelle colonne del sottoschema <b>R<sub>i</sub></b> corrispondente, sugli attributi comuni tra due sottoschemi <b>R<sub>i<sub>1</sub></sub></b> e <b>R<sub>i<sub>2</sub></sub></b> (usati per il join naturale) il valore è sempre <b>a<sub><i>j</i></sub></b>. Dunque le tuple sono compatibili e il join produce sicuramente la tupla che ha <b>a<sub><i>j</i></sub></b> ovunque. Quindi:
+
+$$t^a \in t_{1_f}[R_1] \bowtie \dots \bowtie t_{k_f}[R_k]$$
+
+Inoltre, per [[Decomposition#DECOMPOSIZIONI CON JOIN SENZA PERDITA|definizione]], sappiamo che:
+
+$$m_\rho(r_f) = \pi_{R_1}(r_f) \bowtie \dots \bowtie \pi_{R_k}(r_f)$$
+
+Ora <b>t<sub>i<sub>f</sub></sub>[R<sub>i</sub>]</b> è una delle tuple contenute nella corrispondente proiezione <b>π<sub>R<sub>i</sub></sub>(<i>r</i><sub>f</sub>)</b>, di conseguenza il join delle sole <b>t<sub>i<sub>f</sub></sub>[R<sub>i</sub>]</b> produce un sottoinsieme del join di **tutte** le proiezioni. Quindi:
+
+$$t_{1_f}[R_1] \bowtie \dots \bowtie t_{k_f}[R_k] \subseteq \pi_{R_1}(r_f) \bowtie \dots \bowtie \pi_{R_k}(r_f)$$
+
+Cioè <b>t<sup>a</sup> ∈ <i>m</i><sub>ρ</sub>(<i>r</i><sub>f</sub>)</b>. 
+
+Abbiamo infine che <b><i>r</i><sub>f</sub></b> è **legale** (soddisfa **F**, perché l'algoritmo ha applicato e soddisfatto tutte le dipendenze) e **ρ** è lossless. Per definizione di lossless: <b><i>r</i><sub>f</sub> = <i>m</i><sub>ρ</sub>(<i>r</i><sub>f</sub>)</b>. Dunque se <b>t<sup>a</sup> ∈ <i>m</i><sub>ρ</sub>(<i>r</i><sub>f</sub>)</b> e <b><i>r</i><sub>f</sub> = <i>m</i><sub>ρ</sub>(<i>r</i><sub>f</sub>)</b> allora possiamo concludere che <b>t<sup>a</sup> ∈ <i>r</i><sub>f</sub></b>, cioè **in <b><i>r</i><sub>f</sub></b> esiste una riga con tutti <b>a<sub><i>j</i></sub></b>** (l'algoritmo è corretto).
 
 ---
 ### CALCOLO DELLA DECOMPOSIZIONE
